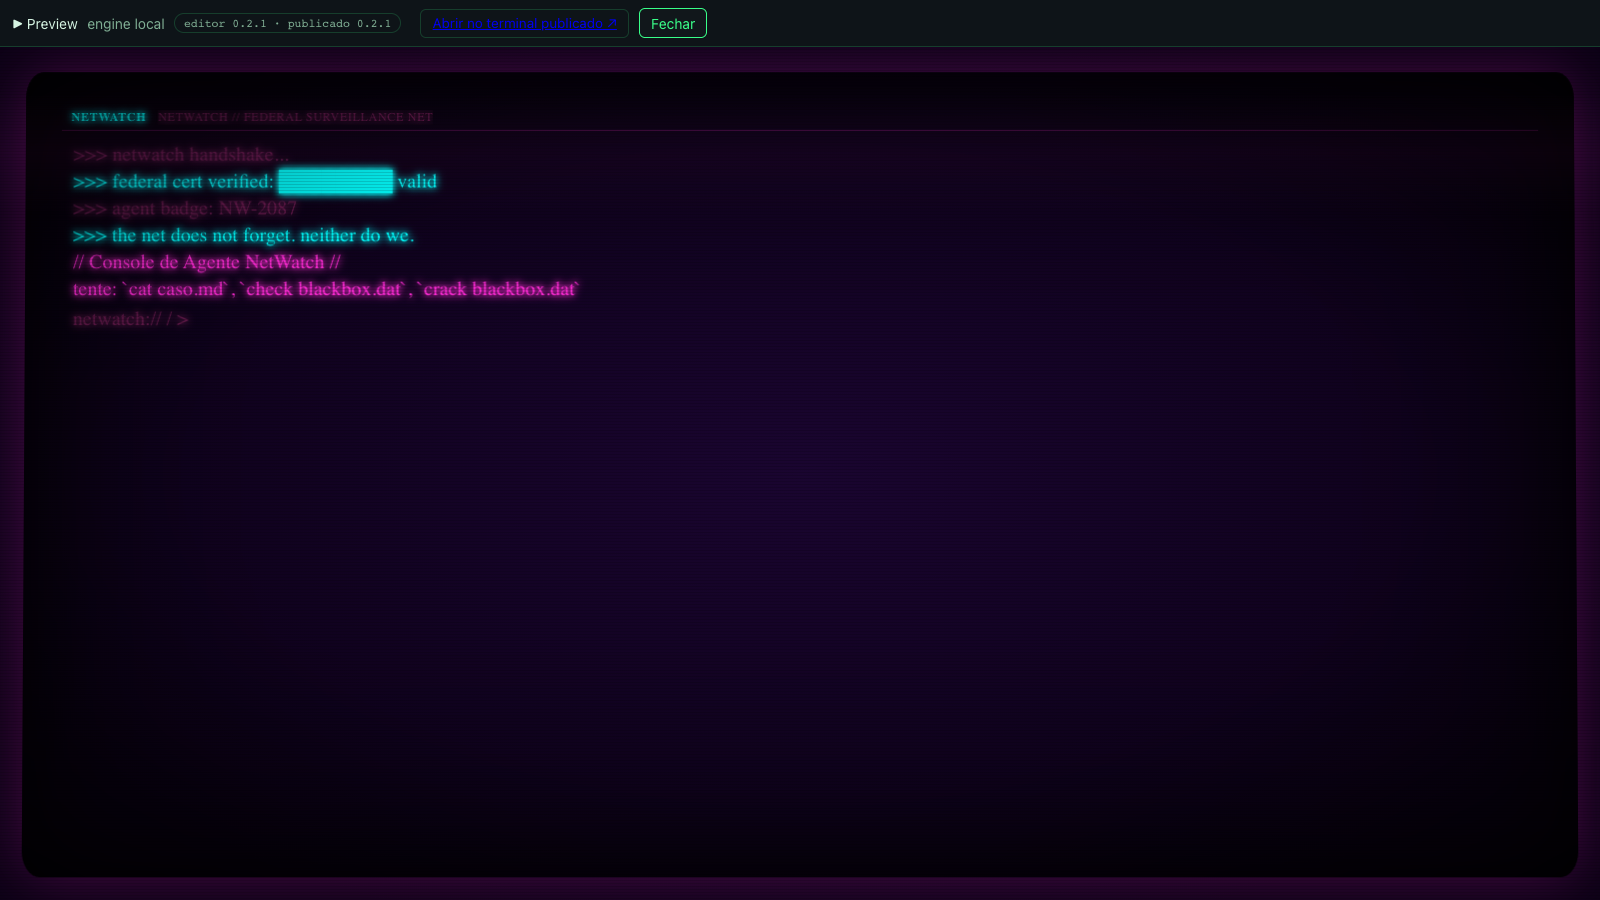
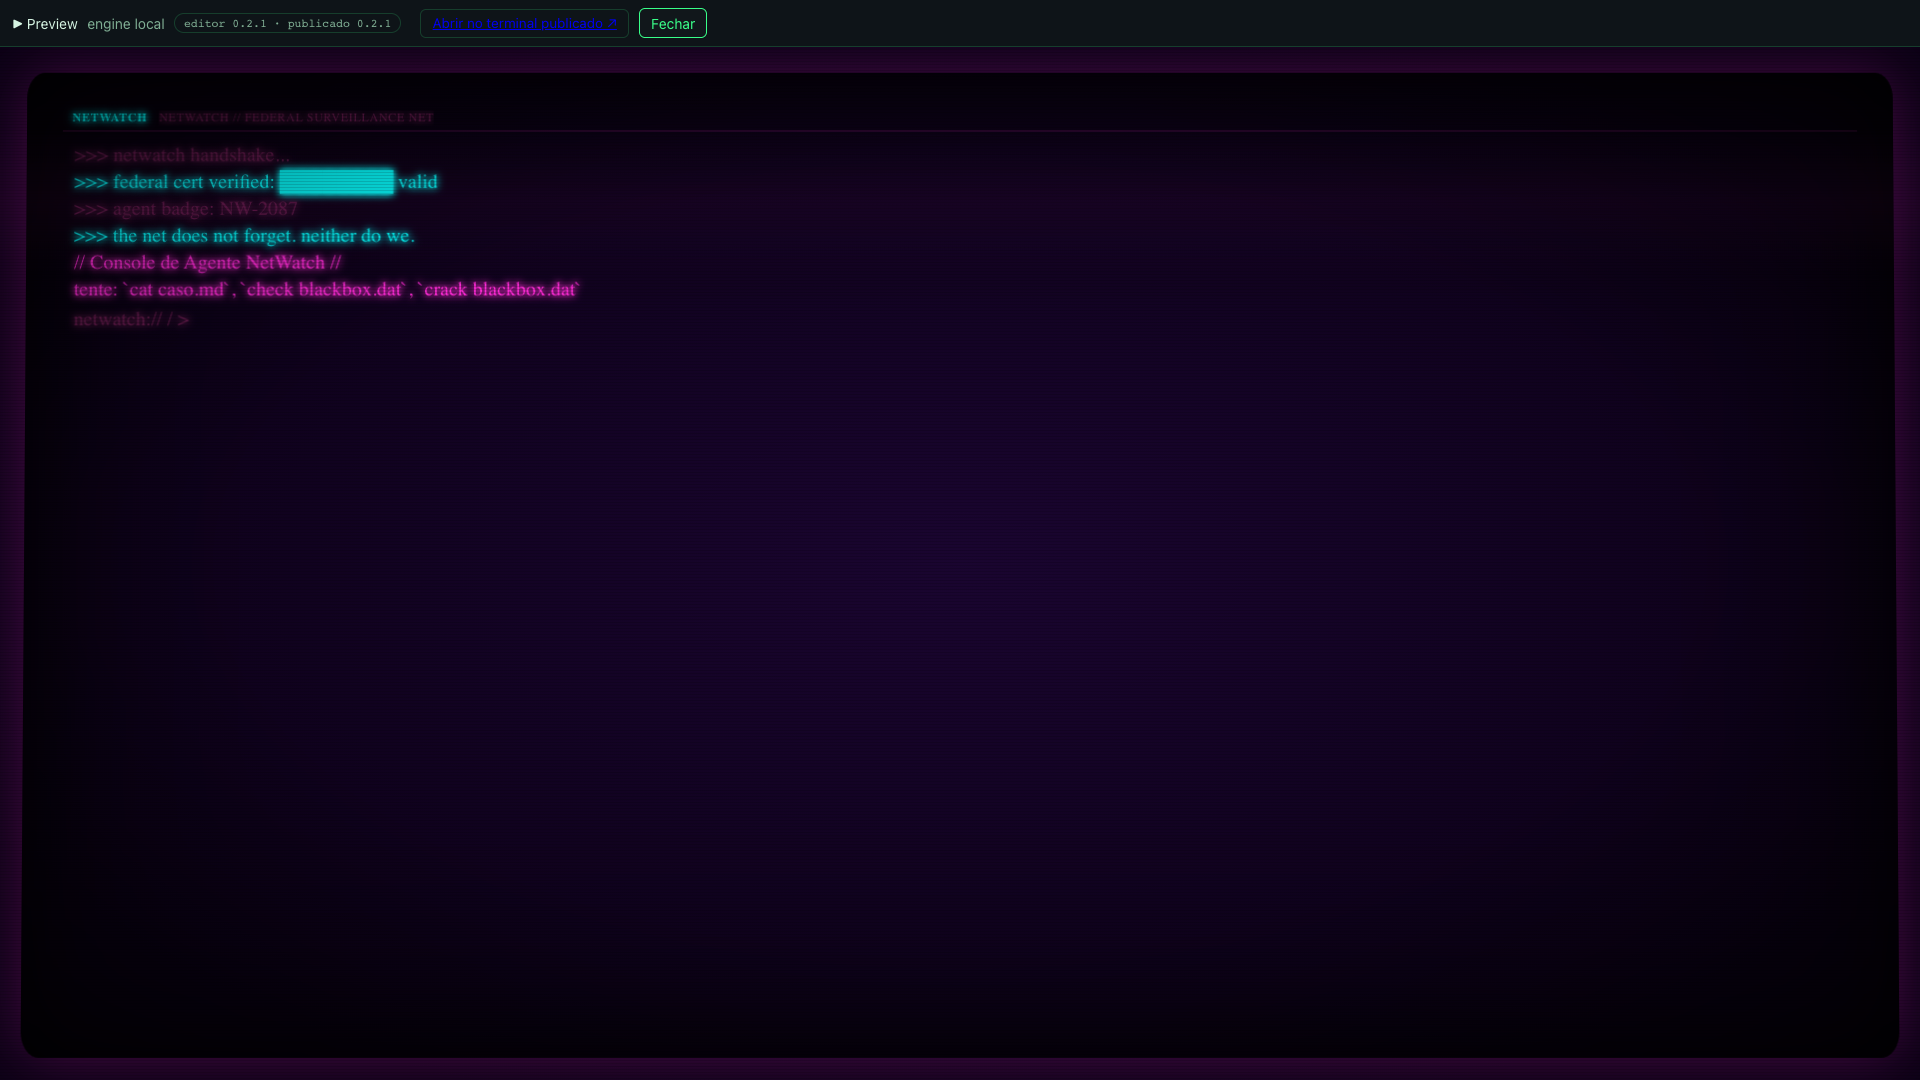
docs: 1080p screenshots, click to enlarge in README

Changed region(s): [[0.0, 0.0, 1.0, 0.3733], [0.0, 0.9644, 1.0, 0.9956]]

diff --git a/README.md b/README.md
@@ -12,11 +12,13 @@ versionável **e** o JSON carregável em runtime.
 
 ## Screenshots
 
-![Editor: árvore, scenario.json e flags](docs/screenshots/editor-overview.png)
+Clique para ver em 1080p.
 
-![Painel de flags de um arquivo trancado](docs/screenshots/flag-toggle.png)
+[<img src="docs/screenshots/editor-overview.png" width="720" alt="Editor: árvore, scenario.json e flags">](docs/screenshots/editor-overview.png)
 
-![Preview in-process no CRT](docs/screenshots/live-preview.png)
+[<img src="docs/screenshots/flag-toggle.png" width="720" alt="Painel de flags de um arquivo trancado">](docs/screenshots/flag-toggle.png)
+
+[<img src="docs/screenshots/live-preview.png" width="720" alt="Preview in-process no CRT">](docs/screenshots/live-preview.png)
 
 > **Status:** editor no navegador (sem instalador). Preview **in-process** (mesmo
 > `rpgterm-engine` do editor, casca CRT via `rpg-prop-kit`). O terminal publicado
